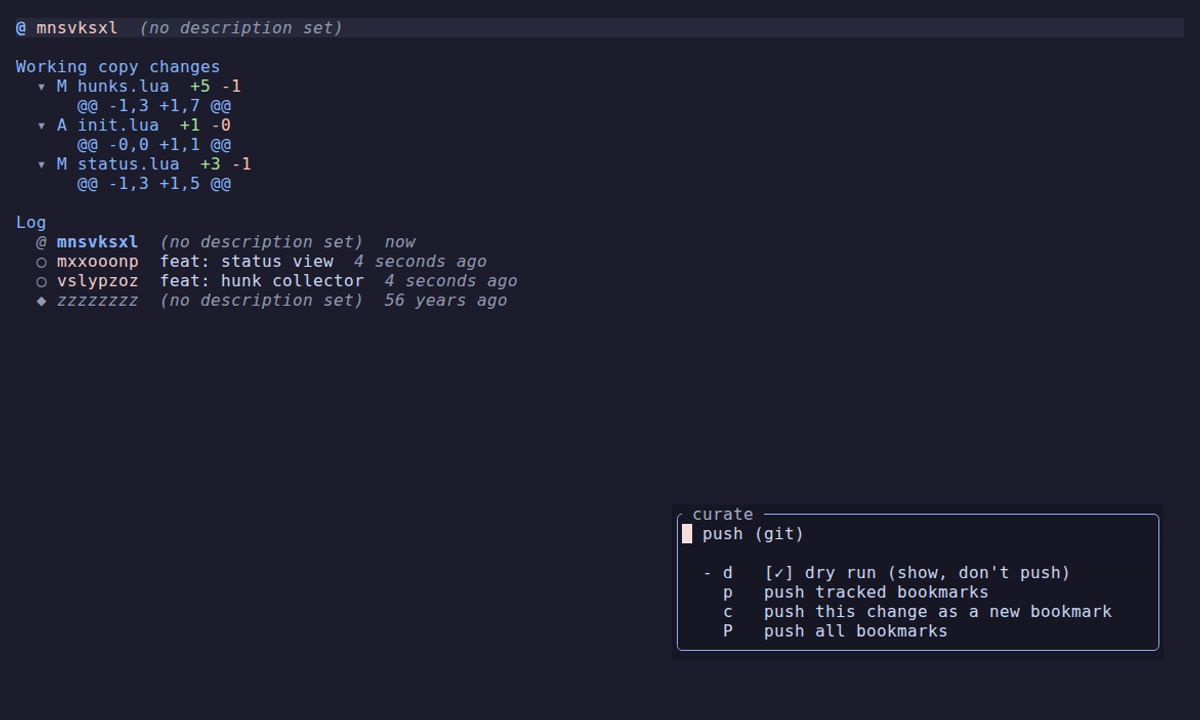
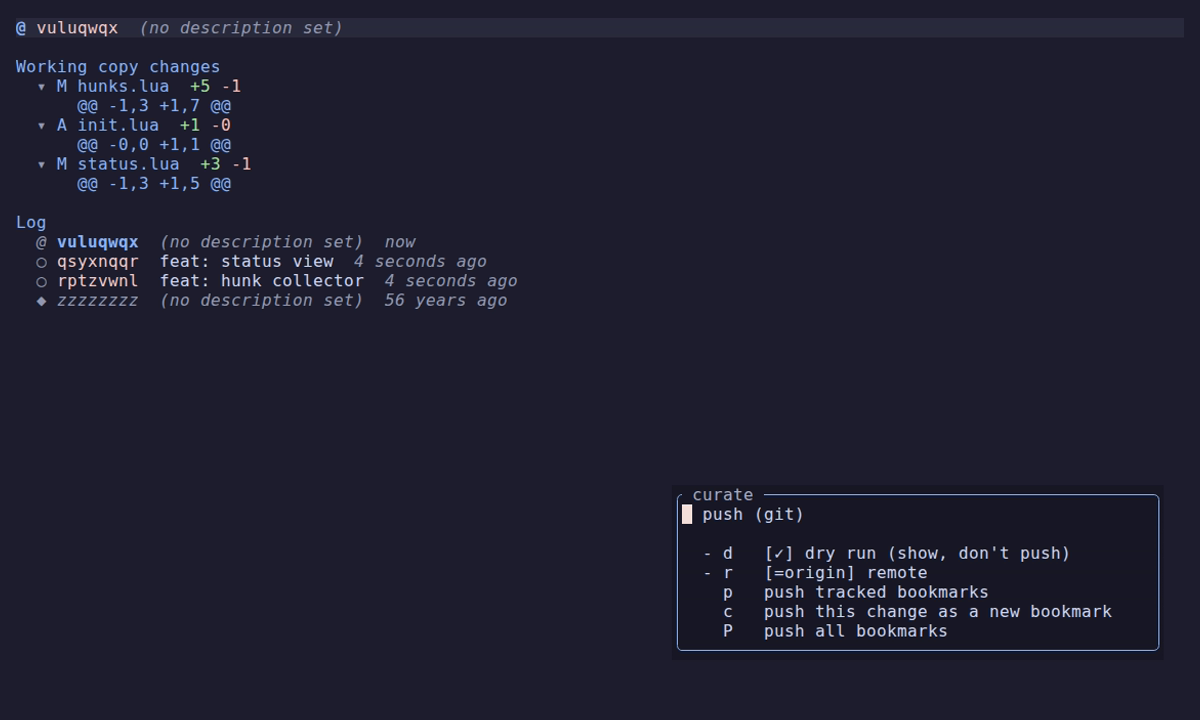
feat(P9): plumb magit sticky args through every menu
Complete the transient engine and put sticky args on every menu that wraps a
flag-bearing jj verb.

- ui/transient: value args (magit's =thing) — a prompted flag value that shows
  [=origin] and contributes `flag value`; booleans still show [ ]/[✓]. open()
  exposes setval() so it's testable without keypresses; the window grows when a
  value widens a line.
- sync: split the combined menu into fetch/pull (f) and push (P), magit's F/P.
  fetch/pull carries a shared `-a --all-remotes` arg (fetch/pull collapse to one
  action each); push carries `-d --dry-run` + a `=r --remote` value arg. Every
  arg is valid for every action in its menu, so a toggle can't build a bad argv.
- reshape: the rebase transient gains `-e --skip-emptied` / `-k --keep-divergent`
  args that all five modes append.
- keymap labels; README keymap + sticky-args section; :help; PLAN.md (P9 ✅).

Tests: transient_spec proves value args contribute `flag value`, compose with
booleans in order, clear on empty, and render as [=val]; p9_spec proves rebase
--skip-emptied abandons an emptied commit; sync_spec proves push --remote/
--dry-run and fetch --all-remotes are accepted by jj (guards bad flags).

Instant rewrites (s/n/k) stay instant on purpose — their flags are niche and a
popup would tax the fast path.

Claude-Session: https://claude.ai/code/session_017R7EtUpdibhoHNu9sSBhmh

Changed region(s): [[0.555, 0.6722, 0.8942, 0.825], [0.0308, 0.3056, 0.1233, 0.3972], [0.0308, 0.0306, 0.0925, 0.0611]]

diff --git a/docs/PLAN.md b/docs/PLAN.md
@@ -124,7 +124,7 @@ The full roadmap is now shipped; what remains is explicitly out-of-scope (below)
 - **Delivers:** the net-new everyday verbs — `abandon` (`k`), `pull`
   (fetch + rebase, sync `u`/`U`), `file untrack` (`K`) — plus the finished
   sticky-arg toggles in the transient engine and a `push` verb popup (`P`) with
-  a `--allow-new` arg, all rows in the one `keymap.lua` registry. (The
+  a `--dry-run` arg, all rows in the one `keymap.lua` registry. (The
   `commit`/`log` popups from the sketch were dropped: those jj verbs have no
   meaningful flags to toggle, so a popup was friction without payoff — `c`/`d`
   and the log view stay direct.)
@@ -132,7 +132,24 @@ The full roadmap is now shipped; what remains is explicitly out-of-scope (below)
 - **GATE:** `p8_spec` — abandon drops a change and reparents its child; untrack
   removes a now-ignored path from `jj file list`; pull fetches then rebases onto
   a moved trunk (bare-remote fixture). `transient_spec` proves an arg toggle
-  flips the flag list an action receives. **→ met (4 tests + abandon/untrack/
-  push-menu screenshots & GIFs).**
+  flips the flag list an action receives; `sync_spec` runs the push menu's
+  `--dry-run` argv against jj so a bad flag can't slip past a string test.
+  **→ met (4 tests + abandon/untrack/push-menu screenshots & GIFs).**
 - **Sketch:** [`P8-command-grammar.md`](P8-command-grammar.md) — the audit,
   keymap deltas, and stacked-PR plan.
+
+## ✅ P9 · sticky args everywhere
+
+- **Delivers:** magit-style sticky args plumbed through every menu with useful
+  flags — `--all-remotes` on the fetch/pull menu (`f`, split from push per
+  magit's F/P), `--dry-run` + a `--remote` **value arg** on the push menu (`P`),
+  `--skip-emptied`/`--keep-divergent` on the rebase transient (`r`). The
+  transient engine gains **value args** (`=thing`, a prompted flag value).
+  Instant rewrites (`s`/`n`/`k`) stay instant on purpose.
+- **Gated on:** P8 (the transient engine + push menu).
+- **GATE:** `transient_spec` proves value args contribute `flag value`, compose
+  with booleans in item order, clear on empty, and render as `[=val]`; `p9_spec`
+  proves `rebase --skip-emptied` abandons an emptied commit; `sync_spec` proves
+  the push `--remote`/`--dry-run` and fetch `--all-remotes` flags are accepted by
+  jj. **→ met (4 tests + fetch/push/rebase menu GIFs).**
+- **Sketch:** [`P9-sticky-args.md`](P9-sticky-args.md).

diff --git a/curate.nvim/README.md b/curate.nvim/README.md
@@ -43,11 +43,18 @@ onto trunk):
 ![untrack a file with K](../screenshots/untrack.gif)
 ![sync menu with pull](../screenshots/sync-menu.png)
 
-The transient popups carry magit-style **sticky args** — toggle `-d`
-(`--dry-run`) in the push menu (`P`) and it rides along with whichever push
-action you pick:
+The menu transients carry magit-style **sticky args** — a row of toggleable `-`
+flags above the actions that ride along with whichever action you pick. Boolean
+args show `[ ]`/`[✓]`; **value args** (like `=remote`) prompt for a value and
+show `[=origin]`. They're plumbed through every menu with useful flags:
 
-![push menu with a sticky --dry-run arg](../screenshots/pushmenu.gif)
+- **fetch/pull** (`f`) — `-a` `--all-remotes`
+- **push** (`P`) — `-d` `--dry-run` · `=r` `--remote <name>`
+- **rebase** (`r`) — `-e` `--skip-emptied` · `-k` `--keep-divergent`
+
+![push menu with sticky --dry-run and =remote args](../screenshots/pushmenu.gif)
+![fetch/pull menu with a sticky --all-remotes arg](../screenshots/fetchpull.gif)
+![rebase menu with sticky --skip-emptied/--keep-divergent args](../screenshots/rebasemenu.gif)
 
 ## Requirements
 
@@ -129,11 +136,11 @@ Lower-case = safe · **UPPER-case = rewrites history**. `.` repeats the last rew
 | `=` | **restore hunk/file from parent** | `jj restore` |
 | `k` | **abandon change** (reparents children; confirm on @) | `jj abandon` |
 | `K` | untrack file under cursor (must be ignored) | `jj file untrack` |
-| `m` `r` | mark · **rebase transient** (onto / -r / -b / insert ±) | `jj rebase` |
+| `m` `r` | mark · **rebase transient** (onto / -r / -b / insert ±; sticky `-e`/`-k`) | `jj rebase` |
 | `R` | **resolve conflicts (3-way merge-editor)** | `jj resolve` |
 | `b` | bookmark menu (set/tug/delete/forget/track/list) | `jj bookmark …` |
-| `f` | sync menu (fetch · **pull** = fetch+rebase · push) | `jj git fetch/push` |
-| `P` | push menu (sticky `-d` = `--dry-run`) | `jj git push` |
+| `f` | fetch/pull menu (sticky `-a` = `--all-remotes`; pull = fetch+rebase) | `jj git fetch` |
+| `P` | push menu (sticky `-d` `--dry-run` · `=r` `--remote`) | `jj git push` |
 | `e` | revset workbench (live query) | `jj log -r …` |
 | `Z` | power menu (duplicate/parallelize/fix/annotate/workspace) | `jj duplicate …` |
 | `o` | op-log | `jj op log` |
